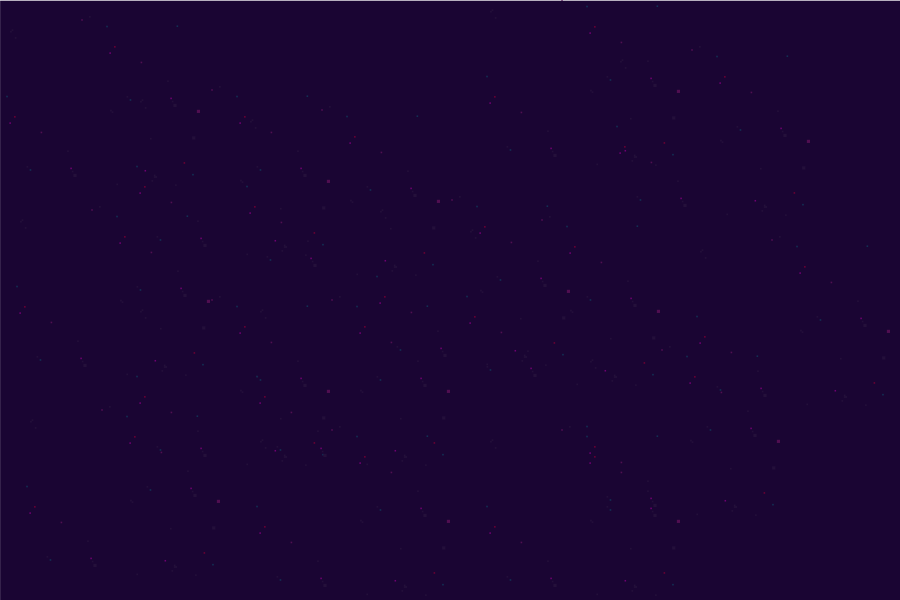
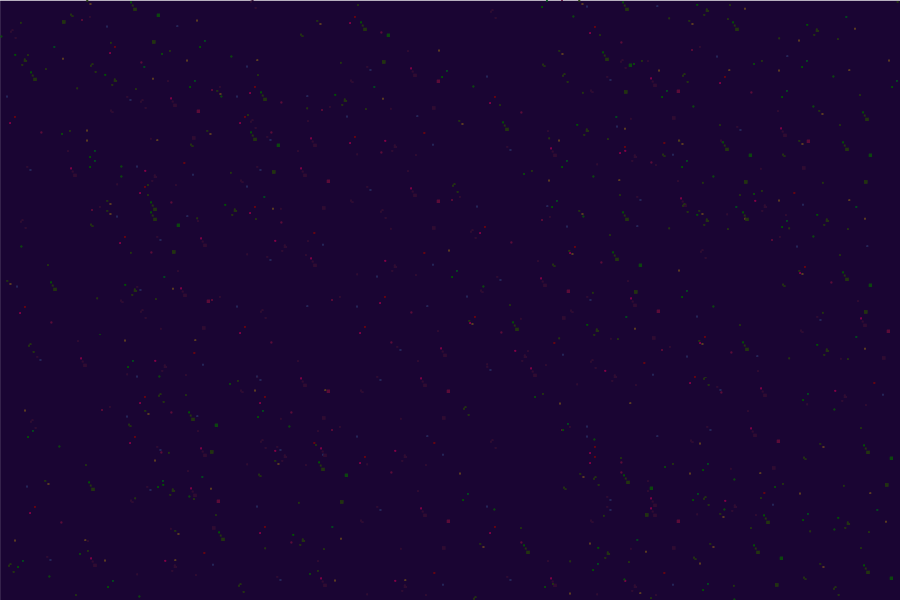
Aliens adicionados ao Canvas

diff --git a/src/main.js b/src/main.js
@@ -1,19 +1,35 @@
 let rightPressed = false;
 let leftPressed = false;
-let spacePressed = false;
 let shipShoots = [];
-let gunShootControl = 0;
+let aliensLevel1 = [];
+let aliensLevel2 = [];
+const aliensQuant = 10;
+let controlTurnAlien = 0;
+
+
+// Canvas
 
 const gameCanvas = new Canvas();
 const imageBackground = new Image();
 imageBackground.src = 'images/background.png';
+gameCanvas.src = imageBackground;
 
-gameCanvas.srcBg = imageBackground;
 
+// SpaceShip
+
+const gameSpaceship = new Spaceship(gameCanvas.ctx, 428, 520, 44, 36);
 const imageSpaceShip = new Image();
 imageSpaceShip.src = 'images/spaceship.png';
+gameSpaceship.src = imageSpaceShip;
 
-const gameSpaceship = new Spaceship(imageSpaceShip, gameCanvas.ctx, 423, 520, 44, 36);
+
+// Aliens
+
+const imageAliensLevel1 = new Image();
+const imageAliensLevel1Flip = new Image();
+imageAliensLevel1.src = 'images/alien1.png';
+imageAliensLevel1Flip.src = 'images/alien1_flip.png';
+
 
 
 class RenderGame{
@@ -26,8 +42,12 @@ class RenderGame{
         this.canvas.clear();
         this.canvas.drawBackground();
         this.spaceship.newPos(leftPressed, rightPressed);
-        shootWay();
+        shootWay(shipShoots, 10);
+        
         this.spaceship.draw();
+        aliensFormation(aliensLevel1, 120);
+        // shootWay(aliensLevel1, -10);
+        // aliensFormation(aliensLevel2, 200);
 
         window.requestAnimationFrame(this.drawCallBack);
     }
@@ -38,22 +58,50 @@ class RenderGame{
 }
 
 
+// Generate Aliens
+
+aliensFormation = (arr, y) => {
+    controlTurnAlien ++;
+    let aliensGap = 74;
+    let aliensW = 34;
+
+    let aliensXStart = (gameCanvas.canvas.width - ((aliensW*aliensQuant)+((aliensGap-aliensW)*aliensQuant)))/2 + (aliensGap-aliensW)/2;
+
+    for(i=0; i<aliensQuant; i++){
+        arr.push(new Aliens(gameCanvas.ctx, aliensXStart+(aliensGap*i), y, aliensW, 48));
+        if (controlTurnAlien % 24 === 0) arr[i].turnAlien = !arr[i].turnAlien;
+        if(!arr[i].turnAlien){
+            arr[i].src = imageAliensLevel1;
+        } else {
+            arr[i].src = imageAliensLevel1Flip;
+        }
+        arr[i].draw();
+    }
+}
+
+imageAliensLevel1.onload = () => {
+    aliensFormation(aliensLevel1, 120);
+    // aliensFormation(aliensLevel2, 200);
+}
+
+
 // Spaceship shoot function
 
-shootWay = () => {
-    for (i = 0; i < shipShoots.length; i++){
-        shipShoots[i].y -= 10;
-        if(shipShoots[i].y >= 241 && shipShoots[i].y <= 400){
-            shipShoots[i].y -= 7;
-            shipShoots[i].h = 24;
+shootWay = (arr,v) => {
+    for (let i = 0; i<arr.length; i++){
+    arr[i].y -= v;
+        if(arr[i].y >= 241 && arr[i].y <= 400){
+            arr[i].y -= v*1.4;
+            arr[i].h = 24;
+            arr[i].w = 3;
         }
-        if(shipShoots[i].y <= 240) {
-            shipShoots[i].y -= 20;
-            shipShoots[i].h = 36;
+        if(arr[i].y <= 240) {
+            arr[i].y -= v*2;
+            arr[i].h = 36;
+            arr[i].w = 2;
         }
-        shipShoots[i].draw();
-        if(shipShoots[0].y <= 0) shipShoots.shift();
-        console.log(shipShoots);
+        arr[i].draw();
+        if(arr[0].y <= 0) arr.shift();
     }
 }
 
@@ -71,8 +119,8 @@ function keyDownHandler(e) {
         leftPressed = true;
     }
     else if(e.key === ' '){
-        shipShoots.push(new Gunshot(gameCanvas.ctx, '#535F84', 10, gameSpaceship.x +21, gameSpaceship.y +6, 2, 18));
-        shipShoots.push(new Gunshot(gameCanvas.ctx, '#AAE7FF', 10, gameSpaceship.x +21, gameSpaceship.y -4, 2, 18));
+        shipShoots.push(new Gunshot(gameCanvas.ctx, '#535F84', 10, gameSpaceship.x +20, gameSpaceship.y +6, 4, 18));
+        shipShoots.push(new Gunshot(gameCanvas.ctx, '#AAE7FF', 10, gameSpaceship.x +20, gameSpaceship.y -4, 4, 18));
     }
 }
 

diff --git a/src/elements.js b/src/elements.js
@@ -2,14 +2,14 @@ class Canvas{
   constructor(){
       this.canvas = document.getElementById('canvas');
       this.ctx = this.canvas.getContext('2d');
-      this.srcBg;
-      this.backgroundSpeed = 10;
+      this.src;
+      this.backgroundSpeed = 14;
       this.bgYPos = 0;
   }
 
   drawBackground = () => {
-    this.ctx.drawImage(this.srcBg, 0, this.bgYPos, this.canvas.width, this.canvas.height);
-    this.ctx.drawImage(this.srcBg, 0, this.bgYPos - this.canvas.height, this.canvas.width, this.canvas.height);
+    this.ctx.drawImage(this.src, 0, this.bgYPos, this.canvas.width, this.canvas.height);
+    this.ctx.drawImage(this.src, 0, this.bgYPos - this.canvas.height, this.canvas.width, this.canvas.height);
     this.bgYPos +=this.backgroundSpeed;
     if(this.bgYPos >= this.canvas.height) this.bgYPos = 0;
   }
@@ -22,8 +22,8 @@ class Canvas{
 
 
 class Spaceship {
-    constructor(src, ctx, x, y, w, h){
-      this.src = src;
+    constructor(ctx, x, y, w, h){
+      this.src;
       this.ctx = ctx;
       this.y = y;
       this.x = x;
@@ -66,9 +66,24 @@ class Spaceship {
 
 
 class Aliens {
-  constructor(){
-
+  constructor(ctx, x, y, w, h){
+    this.ctx = ctx;
+    this.x = x;
+    this.y = y;
+    this.w = w;
+    this.h = h;
+    this.src;
+    this.turnAlien = false;
   }
+
+  draw = () => {
+    this.ctx.drawImage(this.src, this.x, this.y, this.w, this.h);
+  }
+
+  // newPosY = () =>{
+
+  // }
+
 }
 
 
@@ -87,6 +102,24 @@ class Gunshot {
     this.ctx.fillStyle = this.color;
     this.ctx.fillRect(this.x, this.y, this.w, this.h);
   }
+
+  shootWay = (arr,v) => {
+    for (let i = 0; i<arr.length; i++){
+    arr[i].y -= v;
+        if(arr[i].y >= 241 && arr[i].y <= 400){
+            arr[i].y -= v*1.4;
+            arr[i].h = 24;
+            arr[i].w = 3;
+        }
+        if(arr[i].y <= 240) {
+            arr[i].y -= v*2;
+            arr[i].h = 36;
+            arr[i].w = 2;
+        }
+        arr[i].draw();
+        if(arr[0].y <= 0) arr.shift();
+    }
+}
 
 }
 

diff --git a/css/style.css b/css/style.css
@@ -1,7 +1,8 @@
 *{
     padding: 0;
     margin: 0;
-    background-color: #1A0533;
+    /* background-color: #1A0533; */
+    background-color: black;
 }
 
 div{
